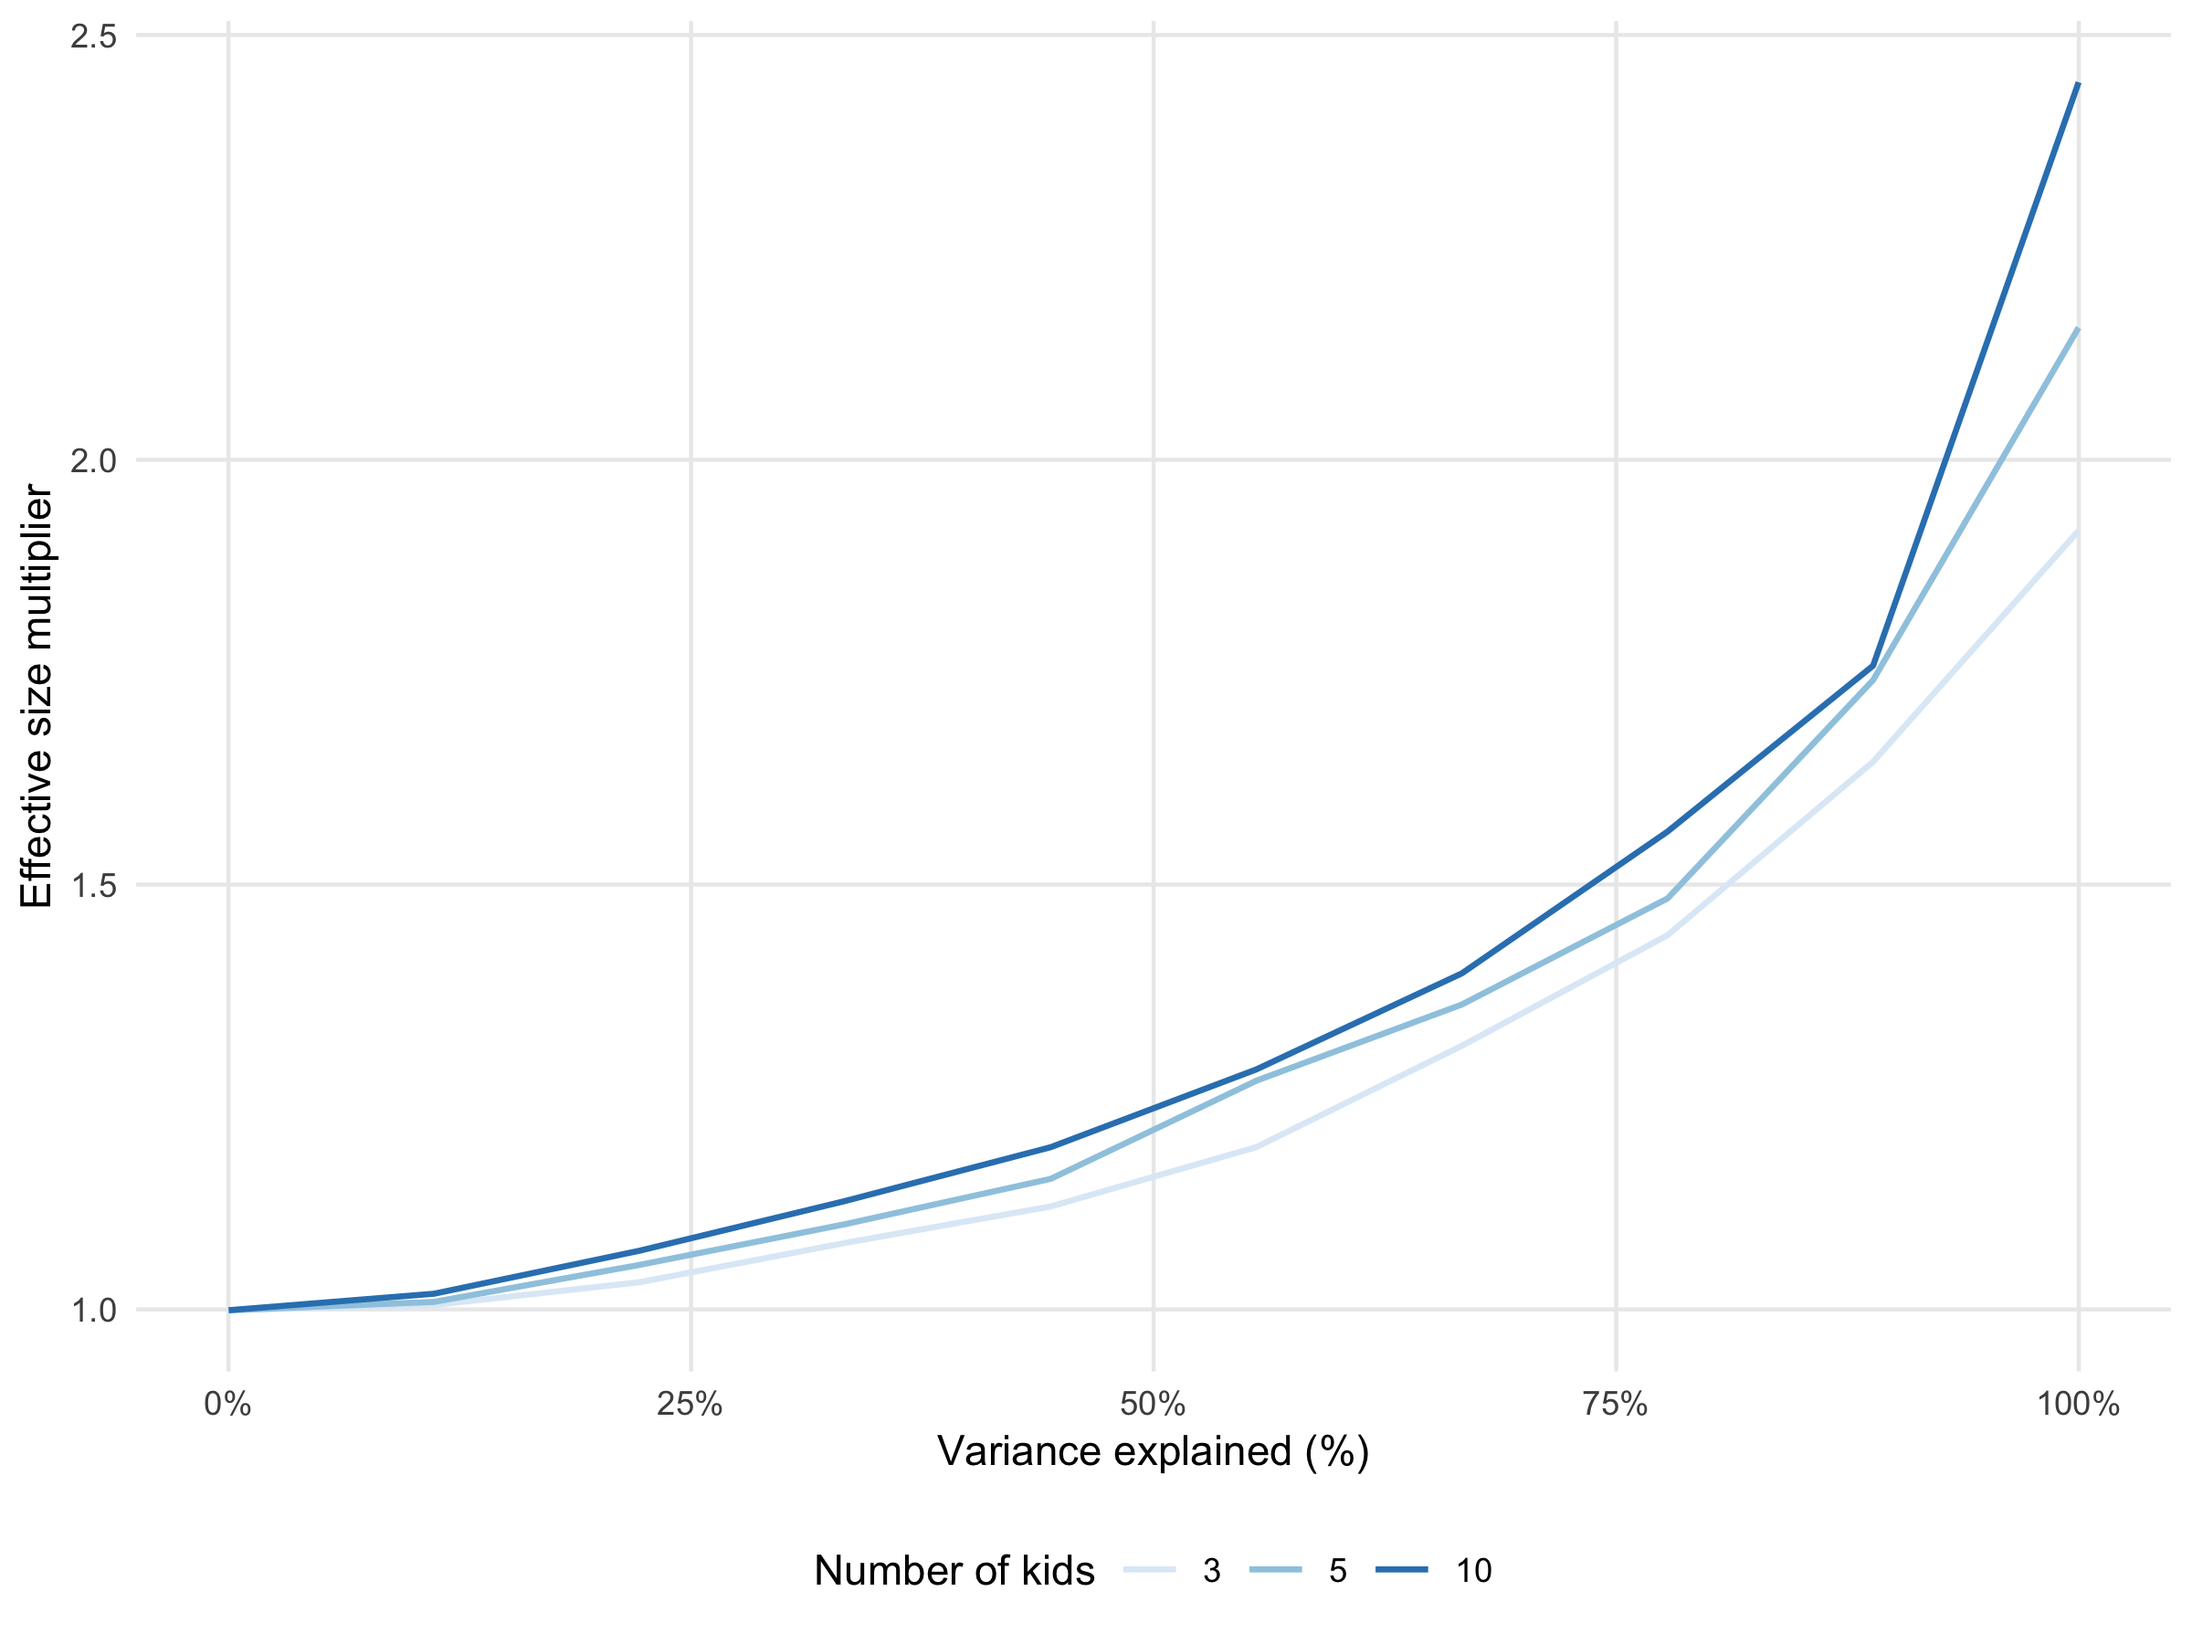
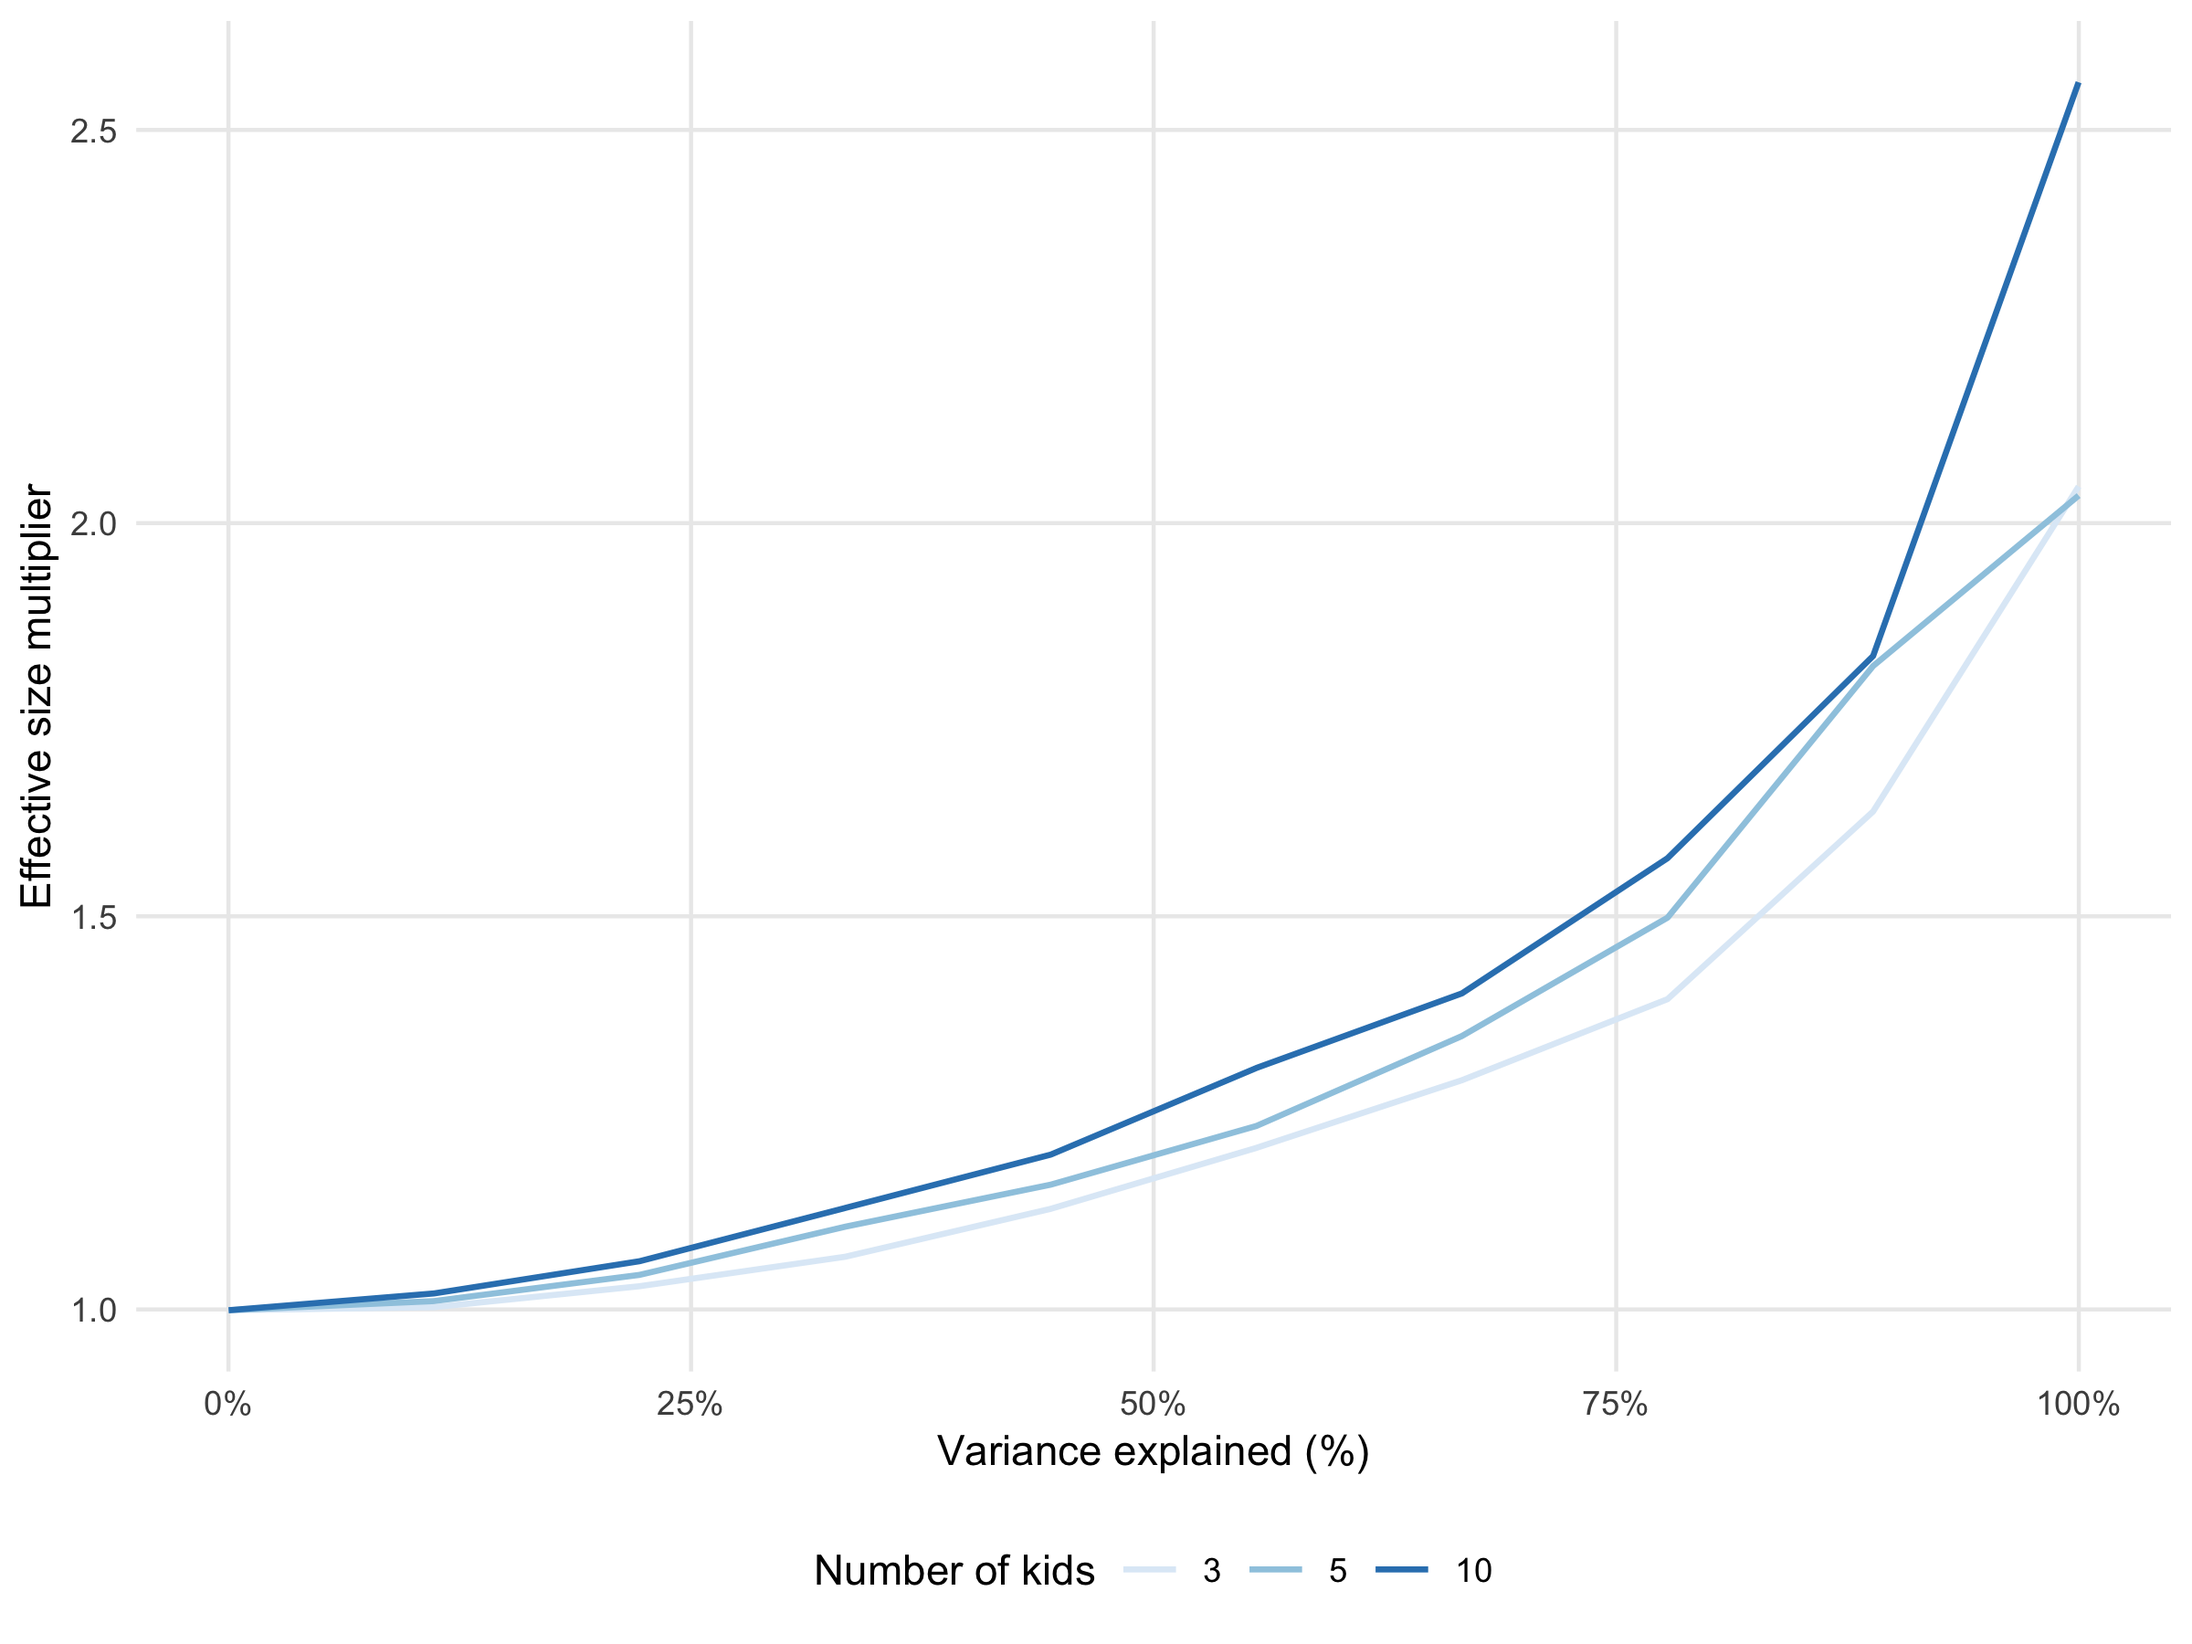
up

diff --git a/Papers/05-int-rel/bookdown/manuscript.html b/Papers/05-int-rel/bookdown/manuscript.html
@@ -25,7 +25,7 @@
 <meta name="author" content="Andrey Ziyatdinov">
 
 
-<meta name="date" content="2018-08-10">
+<meta name="date" content="2018-08-16">
 
   <meta name="viewport" content="width=device-width, initial-scale=1">
   <meta name="apple-mobile-web-app-capable" content="yes">
@@ -228,7 +228,7 @@ Study designs differ in individual relationships that shape modeling of outcome 
 </tbody>
 </table>
 <div class="figure" style="text-align: center"><span id="fig:power-marginal"></span>
-<img src="figures/02-figure-power-marginal-varexp.png" alt="Comparison of study designs to detect marginal genetic effect." width="100%" />
+<img src="figures/07-figure-power-marginal-two-panels.png" alt="Comparison of study designs to detect marginal genetic effect." width="75%" />
 <p class="caption">
 Figure 1.1: Comparison of study designs to detect marginal genetic effect.
 </p>
@@ -239,7 +239,7 @@ Figure 1.1: Comparison of study designs to detect marginal genetic effect.
 <div id="analytical-results-for-testing-gene-environment-interaction-effect" class="section level3">
 <h3><span class="header-section-number">1.3.2</span> Analytical results for testing gene-environment interaction effect</h3>
 <div class="figure" style="text-align: center"><span id="fig:power-interaction"></span>
-<img src="figures/03-figure-power-interaction-varexp.png" alt="Comparison of study designs to detect interaction effect." width="100%" />
+<img src="figures/08-figure-power-interaction-two-panels.png" alt="Comparison of study designs to detect interaction effect." width="75%" />
 <p class="caption">
 Figure 1.2: Comparison of study designs to detect interaction effect.
 </p>

diff --git a/Papers/05-int-rel/bookdown/index.html b/Papers/05-int-rel/bookdown/index.html
@@ -25,7 +25,7 @@
 <meta name="author" content="Andrey Ziyatdinov">
 
 
-<meta name="date" content="2018-08-10">
+<meta name="date" content="2018-08-16">
 
   <meta name="viewport" content="width=device-width, initial-scale=1">
   <meta name="apple-mobile-web-app-capable" content="yes">
@@ -113,7 +113,7 @@
 <div id="header">
 <h1 class="title">GxE Fam Project</h1>
 <h4 class="author"><em>Andrey Ziyatdinov</em></h4>
-<h4 class="date"><em>2018-08-10</em></h4>
+<h4 class="date"><em>2018-08-16</em></h4>
 </div>
 <div id="preface" class="section level1 unnumbered">
 <h1>Preface</h1>

diff --git a/Papers/05-int-rel/bookdown/references.html b/Papers/05-int-rel/bookdown/references.html
@@ -25,7 +25,7 @@
 <meta name="author" content="Andrey Ziyatdinov">
 
 
-<meta name="date" content="2018-08-10">
+<meta name="date" content="2018-08-16">
 
   <meta name="viewport" content="width=device-width, initial-scale=1">
   <meta name="apple-mobile-web-app-capable" content="yes">

diff --git a/Papers/05-int-rel/bookdown/supplementary-material.html b/Papers/05-int-rel/bookdown/supplementary-material.html
@@ -25,7 +25,7 @@
 <meta name="author" content="Andrey Ziyatdinov">
 
 
-<meta name="date" content="2018-08-10">
+<meta name="date" content="2018-08-16">
 
   <meta name="viewport" content="width=device-width, initial-scale=1">
   <meta name="apple-mobile-web-app-capable" content="yes">
